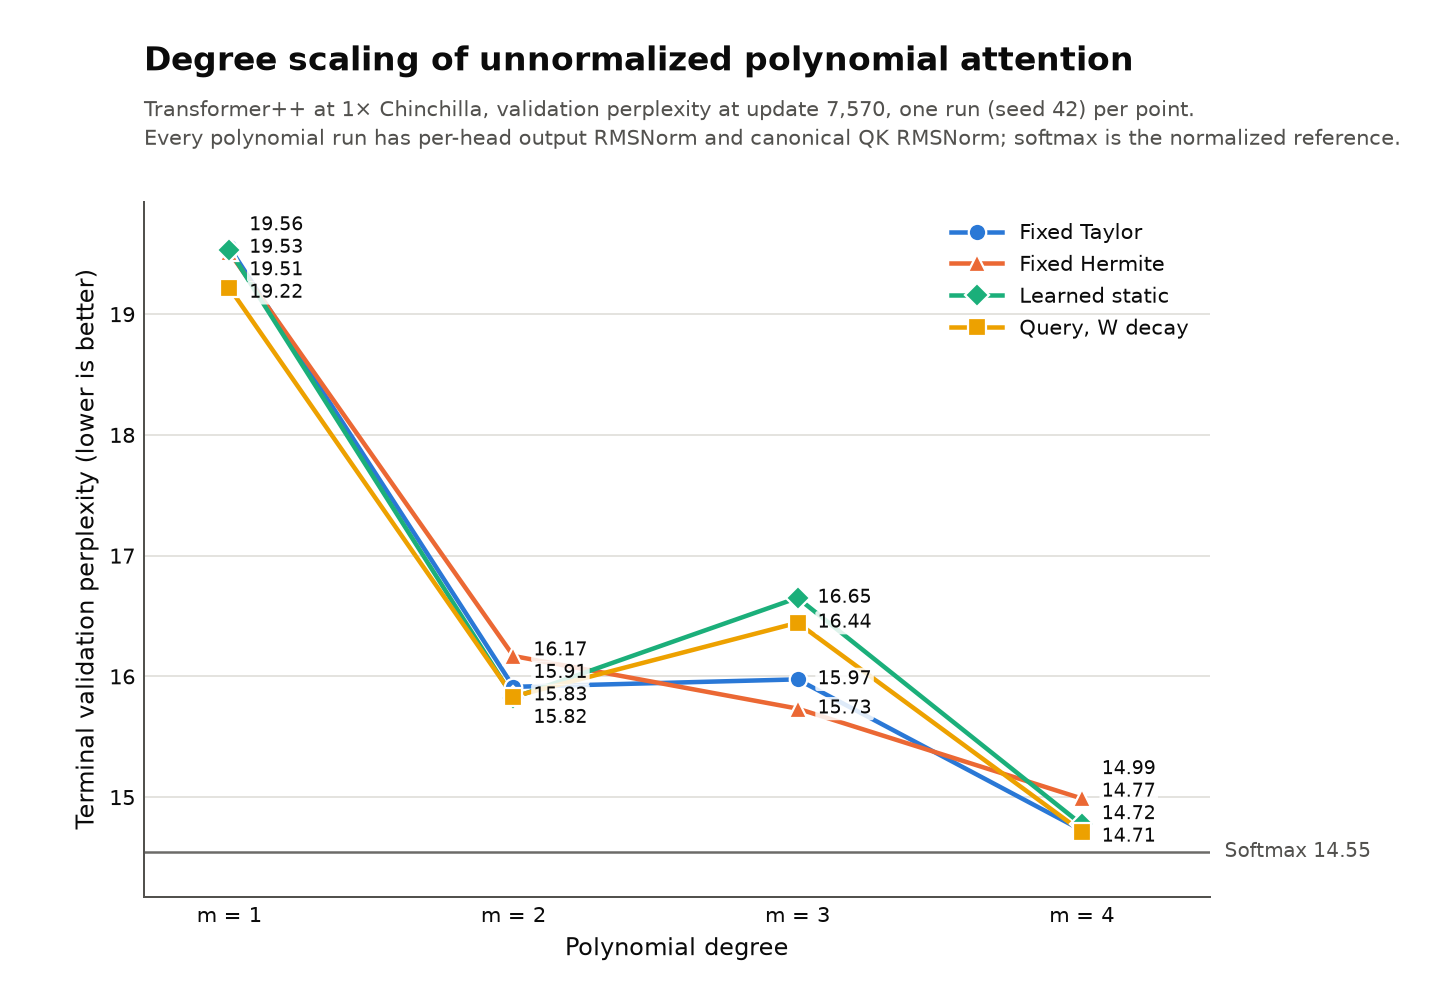
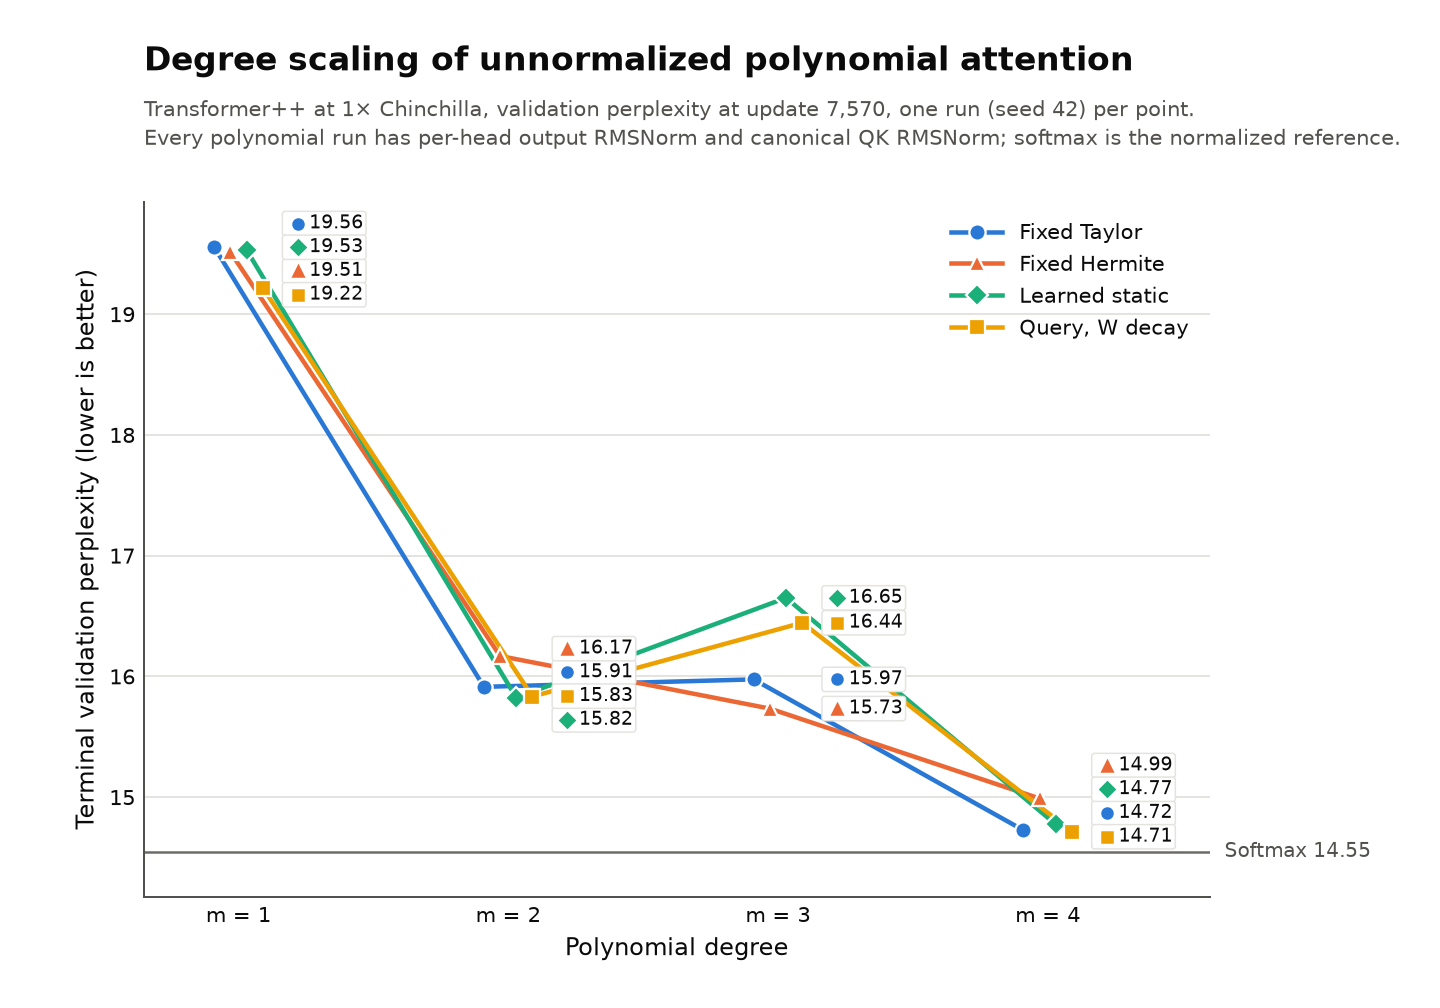
Tighten the degree_scaling checks, labels, and wording after review
Recipes must now match key by key except the degree, the coefficient
parameterization between families, and softmax's kernel settings, with absent
keys read as the defaults they mean, so a forget gate, continuation, other model
size, or other optimizer setting is rejected (with tests). Families sit side by
side at each degree, and each value label carries its family's swatch. The README
says which m = 3 runs reused GPU tests, calls the m = 1 twin gap numerical
divergence rather than seed variation, and scopes the closing-gap and 10B
comparison claims; the study README says terminal and lists the eight ORCD runs
among its home-cluster exceptions.

diff --git a/experiments/transformer_pp/results/degree_scaling/plot.py b/experiments/transformer_pp/results/degree_scaling/plot.py
@@ -21,6 +21,7 @@ matplotlib.use("Agg")
 import matplotlib.pyplot as plt
 import numpy as np
 import yaml
+from matplotlib.transforms import offset_copy
 from numpy.polynomial import hermite_e
 
 from scaffolds.records.selections import verify_pinned_runs
@@ -41,8 +42,33 @@ INK, MUTED, GRID, SURFACE = "#0b0b0b", "#52514e", "#e4e3df", "#ffffff"
 FAMILIES = {"taylor": ("Fixed Taylor", "#2a78d6", "o"), "hermite": ("Fixed Hermite", "#eb6834", "^"),
             "static": ("Learned static", "#1baf7a", "D"), "query_w_decay": ("Query, W decay", "#eda100", "s")}
 REFERENCE = "softmax"
+# Families sit side by side at each degree so that no marker hides another.
+DODGE = {"taylor": -0.09, "hermite": -0.03, "static": 0.03, "query_w_decay": 0.09}
 CANONICAL_QK = {"qk_norm": True, "qk_norm_type": "rms_norm", "qk_norm_sharing": "per_layer",
                 "qk_norm_initial_scale": None, "qk_norm_head_scale": True}
+# Recipes are compared key by key. Run names and locations differ by design (the data
+# manifests' contents are checked by hash), and recipes written before a feature existed
+# lack its key, which then means the value below.
+LOCATIONS = {"data.train_manifest", "data.eval_manifest", "train.checkpoint_dir", "train.workdir",
+             "train.wandb_group", "train.wandb_run_name"}
+ABSENT = {
+    "continuation.new_parameter_learning_rate": None, "continuation.parent_checkpoint": "",
+    "continuation.parent_checkpoint_sha256": "", "continuation.parent_config": "",
+    "continuation.parent_config_sha256": "", "continuation.parent_data_identity_sha256": "",
+    "continuation.parent_step": 0, "model.attention_forget_gate": False,
+    "model.attention_coefficient_kernel_weight_decay": False, "model.qk_norm_token_scale": "none",
+    "model.qk_norm_token_scale_kernel_weight_decay": False, "optim.query_coefficient_learning_rate_scale": 1.0,
+}
+# Within a family only the degree changes, with the Hermite coefficients it determines;
+# between families the coefficient parameterization changes too, and softmax also differs
+# in its kernel, normalization, and output scaling.
+DEGREE_KEYS = {"model.attention_degree", "model.attention_fixed_coefficients"}
+FAMILY_KEYS = DEGREE_KEYS | {f"model.attention_{key}" for key in (
+    "coefficients", "coefficient_activation", "coefficient_amplitude_initial", "coefficient_amplitude_scale",
+    "coefficient_conditioning", "coefficient_kernel_weight_decay", "coefficient_projection_initial_std",
+    "coefficient_scale", "coefficient_sharing")}
+REFERENCE_KEYS = FAMILY_KEYS | {"model.attention_backend", "model.attention_normalization",
+                                "model.attention_output_scaling"}
 
 
 def hermite_coefficients(degree: int) -> list[float]:
@@ -100,14 +126,62 @@ def _check_recipe(entry: dict, config: dict, settings: dict) -> None:
             raise ValueError(f"Polynomial runs are unnormalized with per-head output RMSNorm: {run}")
 
 
+def _flatten(tree: dict, prefix: str = "") -> dict:
+    flat = {}
+    for key, value in tree.items():
+        if isinstance(value, dict) and value:
+            flat.update(_flatten(value, f"{prefix}{key}."))
+        else:
+            flat[f"{prefix}{key}"] = value
+    return flat
+
+
+def _recipe(config: dict) -> dict:
+    """A recipe's settings by dotted key, with absent keys filled and locations dropped."""
+    recipe = {**ABSENT, **_flatten(config)}
+    return {key: value for key, value in recipe.items() if key not in LOCATIONS}
+
+
+def _compare(recipes: dict, base: str, run: str, allowed: set) -> None:
+    missing = object()
+    differing = sorted(key for key in set(recipes[base]) | set(recipes[run])
+                       if key not in allowed and recipes[base].get(key, missing) != recipes[run].get(key, missing))
+    if differing:
+        raise ValueError(f"{run} differs from {base} beyond the comparison: {', '.join(differing)}")
+
+
+def check_recipes(entries: list[dict], configs: dict, settings: dict) -> None:
+    """Each recipe is its declared cell in the shared setup, and recipes differ only where the comparison does."""
+    for entry in entries:
+        _check_recipe(entry, configs[entry["run_id"]], settings)
+    recipes = {run: _recipe(config) for run, config in configs.items()}
+    for key, value in ABSENT.items():
+        if key not in FAMILY_KEYS and any(recipe[key] != value for recipe in recipes.values()):
+            raise ValueError(f"Every run must have {key} = {value!r}")
+    primary = [entry for entry in entries if entry["role"] == "primary"]
+    anchors = {}
+    for entry in primary:
+        anchor = anchors.setdefault(entry["family"], entry["run_id"])
+        _compare(recipes, anchor, entry["run_id"], DEGREE_KEYS)
+    first = primary[0]["run_id"]
+    for anchor in anchors.values():
+        _compare(recipes, first, anchor, FAMILY_KEYS)
+    for entry in entries:
+        if entry["role"] == "reference":
+            _compare(recipes, first, entry["run_id"], REFERENCE_KEYS)
+
+
 def load_runs(selection: dict | None = None) -> list[dict]:
     selection = selection or yaml.safe_load((DIRECTORY / "selection.yaml").read_text())
     settings, identity = selection["settings"], selection["data_identity"]
     verify_pinned_runs(ROOT, selection["runs"])
+    paths = {entry["run_id"]: ROOT / "experiments" / entry["study"] / "runs" / entry["run_id"]
+             for entry in selection["runs"]}
+    check_recipes(selection["runs"], {run: yaml.safe_load((path / "config.yaml").read_text())
+                                      for run, path in paths.items()}, settings)
     rows = []
     for entry in selection["runs"]:
-        path = ROOT / "experiments" / entry["study"] / "runs" / entry["run_id"]
-        _check_recipe(entry, yaml.safe_load((path / "config.yaml").read_text()), settings)
+        path = paths[entry["run_id"]]
         record = json.loads((path / "record.json").read_text())
         if record["status"] != "complete":
             raise ValueError(f"Selected run is not complete: {entry['run_id']} ({record['status']})")
@@ -177,36 +251,44 @@ def render(rows: list[dict], output: Path = DIRECTORY) -> None:
         figure.subplots_adjust(left=0.1, right=0.84, top=0.8, bottom=0.11)
         level = softmax["terminal_validation_perplexity"]
         axis.axhline(level, color=MUTED, linewidth=1.0, alpha=0.85, zorder=1)
-        by_degree: dict[int, list[float]] = {}
+        by_degree: dict[int, list[tuple[float, str]]] = {}
         handles = []
         for family, (name, color, marker) in FAMILIES.items():
             points = sorted((row["degree"], row["terminal_validation_perplexity"])
                             for row in primary if row["family"] == family)
-            xs, ys = zip(*points)
+            xs = [degree + DODGE[family] for degree, _ in points]
+            ys = [value for _, value in points]
             axis.plot(xs, ys, color=color, linewidth=1.8, zorder=2, solid_capstyle="round")
-            axis.plot(xs, ys, linestyle="none", marker=marker, markersize=7, color=color,
+            axis.plot(xs, ys, linestyle="none", marker=marker, markersize=6.5, color=color,
                       markeredgecolor=SURFACE, markeredgewidth=0.9, zorder=3)
-            handles.append(plt.Line2D([], [], color=color, marker=marker, markersize=7, linewidth=1.8,
+            handles.append(plt.Line2D([], [], color=color, marker=marker, markersize=6.5, linewidth=1.8,
                                       markeredgecolor=SURFACE, markeredgewidth=0.9, label=name))
-            for x, y in points:
-                by_degree.setdefault(x, []).append(y)
+            for degree, value in points:
+                by_degree.setdefault(degree, []).append((value, family))
         values = [row["terminal_validation_perplexity"] for row in primary] + [level]
         lower, upper = min(values), max(values)
         pad = 0.05 * (upper - lower)
-        axis.set_xlim(min(degrees) - 0.3, max(degrees) + 0.45)
+        axis.set_xlim(min(degrees) - 0.35, max(degrees) + 0.6)
         axis.set_ylim(lower - 1.5 * pad, upper + 1.5 * pad)
         height_points = axis.get_window_extent().height * 72 / figure.dpi
         gap = 10.0 * (axis.get_ylim()[1] - axis.get_ylim()[0]) / height_points
-        for x, levels in sorted(by_degree.items()):
-            positions = _spread(levels, 0.9 * gap)
+        # Each value is a chip right of the degree's markers: a small swatch in the family's
+        # color and shape, then the number, on an opaque background so it reads as a label.
+        swatch = offset_copy(axis.transData, fig=figure, x=14, y=0, units="points")
+        right = max(DODGE.values())
+        for x, labels in sorted(by_degree.items()):
+            positions = _spread([value for value, _ in labels], 0.95 * gap)
             # Labels that would sit on the softmax level move up together to clear it.
             if level - 0.6 * gap < min(positions) < level + 0.6 * gap:
                 positions = [position + level + 0.6 * gap - min(positions) for position in positions]
-            for value, placed in zip(levels, positions):
-                axis.annotate(f"{value:.2f}", (x, placed), xytext=(8, 0), textcoords="offset points",
+            for (value, family), placed in zip(labels, positions):
+                _, color, marker = FAMILIES[family]
+                axis.annotate(f"    {value:.2f}", (x + right, placed), xytext=(9, 0), textcoords="offset points",
                               ha="left", va="center", fontsize=7.5, color=INK, zorder=4,
-                              bbox={"boxstyle": "round,pad=0.12", "facecolor": SURFACE, "edgecolor": "none",
-                                    "alpha": 0.85})
+                              bbox={"boxstyle": "round,pad=0.15", "facecolor": SURFACE, "edgecolor": GRID,
+                                    "linewidth": 0.6})
+                axis.plot([x + right], [placed], marker=marker, markersize=4, color=color, linestyle="none",
+                          transform=swatch, clip_on=False, zorder=5)
         axis.annotate(f"Softmax {level:.2f}", (1.0, level), xycoords=("axes fraction", "data"), xytext=(6, 0),
                       textcoords="offset points", ha="left", va="center", fontsize=8, color=MUTED,
                       annotation_clip=False)

diff --git a/experiments/transformer_pp/results/degree_scaling/tests/test_degree_scaling.py b/experiments/transformer_pp/results/degree_scaling/tests/test_degree_scaling.py
@@ -9,7 +9,7 @@ import pytest
 import yaml
 
 from experiments.transformer_pp.results.degree_scaling.plot import (
-    DIRECTORY, family_of, hermite_coefficients, load_runs, main)
+    DIRECTORY, ROOT, check_recipes, family_of, hermite_coefficients, load_runs, main)
 
 
 SELECTION = yaml.safe_load((DIRECTORY / "selection.yaml").read_text())
@@ -61,6 +61,29 @@ def test_family_follows_the_recipe():
     with pytest.raises(ValueError, match="Unlisted coefficient family"):
         family_of(dict(query, attention_coefficient_kernel_weight_decay=False))
     assert family_of({"attention_degree": None, "attention_normalization": True}) == "softmax"
+
+
+def test_recipes_differ_only_in_the_compared_settings():
+    configs = {entry["run_id"]: yaml.safe_load(
+        (ROOT / "experiments" / entry["study"] / "runs" / entry["run_id"] / "config.yaml").read_text())
+        for entry in SELECTION["runs"]}
+    check_recipes(SELECTION["runs"], configs, SELECTION["settings"])
+    # (run, section, key, value, expected message): settings outside the comparison.
+    mutations = [
+        ("r81fad1755b11", "model", "attention_forget_gate", True, "attention_forget_gate"),
+        ("r9040f12f3d80", "model", "attention_forget_gate", True, "attention_forget_gate"),
+        ("r816ab0fbe119", "model", "qk_norm_token_scale", "cosine", "qk_norm_token_scale"),
+        ("rdf6363a4b83c", "continuation", "parent_checkpoint", "parent/checkpoints/7500", "parent_checkpoint"),
+        ("ra7f2fda1c792", "model", "attention_mechanism", "path", "attention_mechanism"),
+        ("r00f1f91a7803", "optim", "learning_rate", 0.002, "optim.learning_rate"),
+        ("r1f880c4ee659", "model", "hidden_size", 1024, "model.hidden_size"),
+        ("r9040f12f3d80", "optim", "weight_decay", 0.0, "optim.weight_decay"),
+    ]
+    for run, section, key, value, message in mutations:
+        changed = copy.deepcopy(configs)
+        changed[run].setdefault(section, {})[key] = value
+        with pytest.raises(ValueError, match=message):
+            check_recipes(SELECTION["runs"], changed, SELECTION["settings"])
 
 
 def test_changed_inputs_and_mislabeled_cells_are_rejected():

diff --git a/experiments/transformer_pp/results/degree_scaling/README.md b/experiments/transformer_pp/results/degree_scaling/README.md
@@ -42,8 +42,8 @@ level in the figure.
 
 Hermite at `m = 1` is `exp(1/2)` times Taylor at `m = 1`. The output RMSNorm removes
 that factor, so the two runs train the same function up to the norm's epsilon and
-floating point; their difference measures run-to-run variation, which the study has
-not otherwise measured.
+floating point; their difference measures how far equivalent runs diverge numerically.
+No cell has a second seed.
 
 ## Findings
 
@@ -94,11 +94,12 @@ Softmax reference (`r9040f12f3d80`): terminal 14.546, validation-best 14.543 (up
   `m = 3` runs fall behind fixed Taylor at `m = 3` early, static from update 400 and
   query from the first evaluation at update 100, and from update 2,000 on stay
   0.040–0.045 nats (static) and 0.027–0.033 nats (query) behind it. At `m = 2` and 4 the
-  learned runs end within 0.6% of fixed Taylor. All four `m = 3` runs passed acceptance,
-  including the GPU kernel tests, on the H100s they trained on. The rises are 18–24 times
-  the twin difference below in validation NLL, so they are not rounding; whether they are
-  systematic or one unlucky seed is untested.
-- **Run-to-run variation is about 0.2%.** Taylor and Hermite at `m = 1` end 0.042 apart
+  learned runs end within 0.6% of fixed Taylor. All four `m = 3` runs passed acceptance
+  on H100 80GB HBM3s at the same commit: static and query ran the GPU kernel tests,
+  degree 3 included, on their own nodes, and Taylor and Hermite reused Taylor `m = 2`'s.
+  The rises are 18–24 times the twin difference below in validation NLL, so they are not
+  rounding; whether they are systematic or one unlucky seed is untested.
+- **Equivalent runs diverge by about 0.2%.** Taylor and Hermite at `m = 1` end 0.042 apart
   (19.556 and 19.513). Learned static at `m = 1` adds nothing the per-head score scale
   cannot express while its constant coefficient stays positive, which it does in all 210
   heads, and it ends between them (19.531). Differences of a few tenths of a percent
@@ -116,12 +117,12 @@ Softmax reference (`r9040f12f3d80`): terminal 14.546, validation-best 14.543 (up
   Kennel H100 PCIe. Taylor and static at `m = 4` accumulated gradients with the earlier
   host loop, which computes the same sums with different rounding. Query's step from
   `m = 2` to 3 therefore also changes GPU and source commit; static's does not.
-- The comparison is one 1× budget and schedule. The lower degrees were still closing the
-  gap when training ended (Taylor at `m = 3` led `m = 2` until update 6,000), so the
-  ranking may change with more tokens.
+- The comparison is one 1× budget and schedule. Every `m = 1` run was still closing on
+  its `m = 2` run when training ended, and fixed Taylor at `m = 2` overtook `m = 3` only
+  after update 6,000, so the ranking may change with more tokens.
 - The closest 10B-token analog in [attention_scaling](../../../../results/attention_scaling/README.md),
   learned coefficients with per-head output RMSNorm, improves at every degree (14.630 at
-  `m = 2`, 13.988 at `m = 3`), so a penalty at `m = 3` does not carry across recipes.
+  `m = 2`, 13.988 at `m = 3`), so the penalty at `m = 3` is absent in that recipe.
 
 ## Regenerate
 

diff --git a/experiments/transformer_pp/README.md b/experiments/transformer_pp/README.md
@@ -127,7 +127,7 @@ scaffolds/transformer/.venv/bin/python experiments/transformer_pp/plot_recipe.py
 
 ## Degree scaling
 
-The [degree scaling collection](results/degree_scaling/README.md) plots 1× validation
+The [degree scaling collection](results/degree_scaling/README.md) plots 1× terminal validation
 perplexity against polynomial degree `m = 1, 2, 3, 4` for four coefficient families of
 unnormalized polynomial attention with per-head output RMSNorm and the canonical QK
 setup: fixed Taylor (`c_r = 1/r!`), fixed Hermite (`exp(1/2) sum_r He_r(s)/r!` in
@@ -588,7 +588,8 @@ execution gets a fresh run ID. The exact submission is recorded with the run.
 ## Execution and records
 
 Home cluster: **Kennel**, except the query–key pretraining runs, the five ORCD 2.5× runs
-above, and the coefficient-oracle fit `r043b150cde03` (ORCD). Data manifests live under
+above, the eight degree-scaling runs at `m = 2-4`, and the coefficient-oracle fit
+`r043b150cde03` (ORCD). Data manifests live under
 `/data/cl/u/rafah/home/datasets/fineweb_12b/`; common hashes are in `sweep.yaml`.
 Retained checkpoints and logs live under this study in the primary Kennel checkout, or
 for ORCD runs under ORCD's artifact root, at the locations recorded in each run. The frozen recipe and execution record
